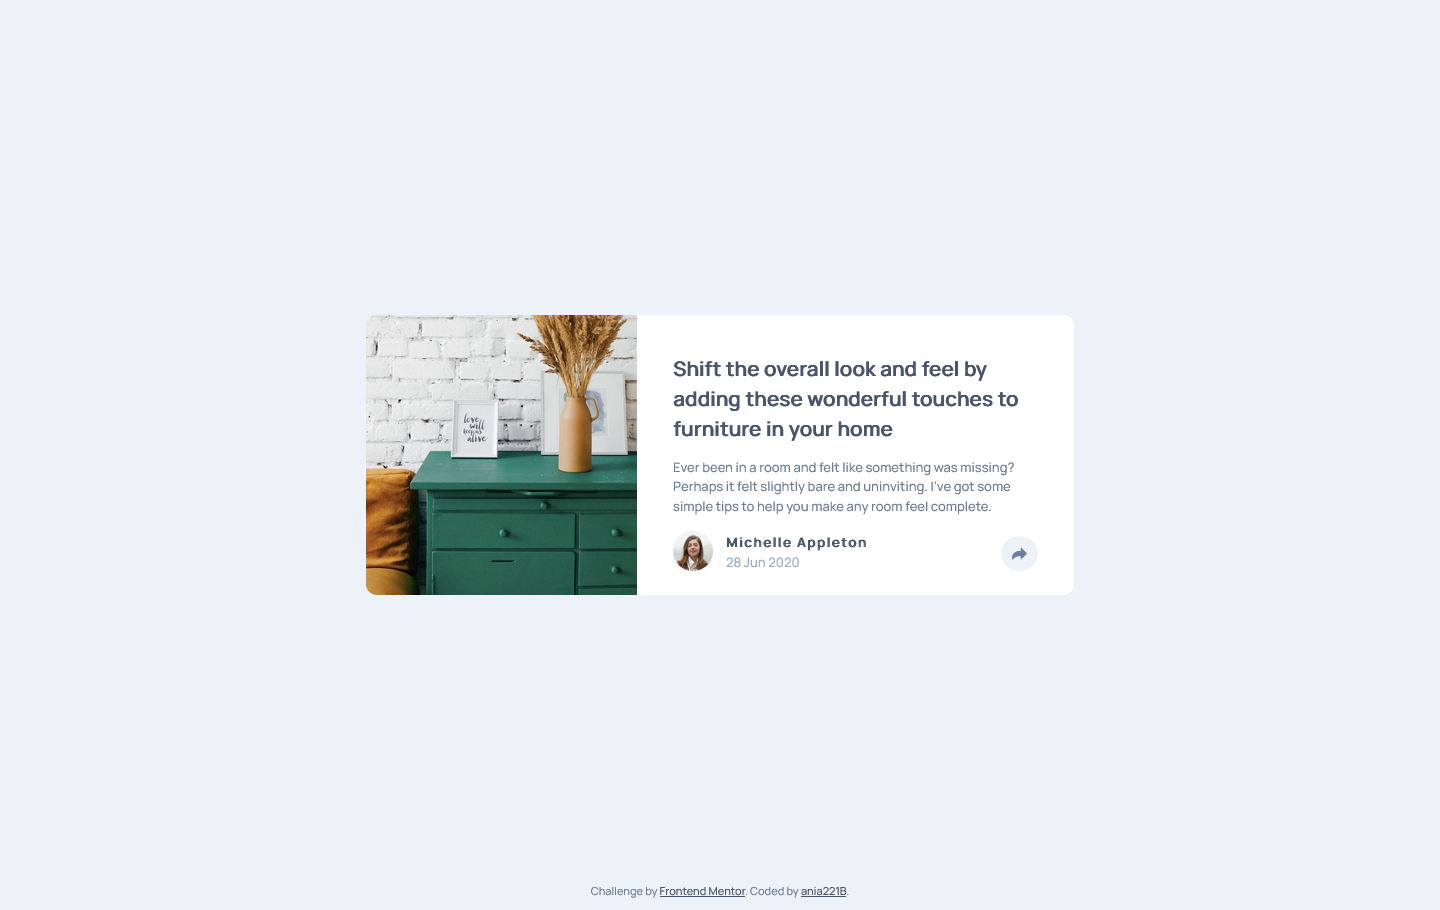
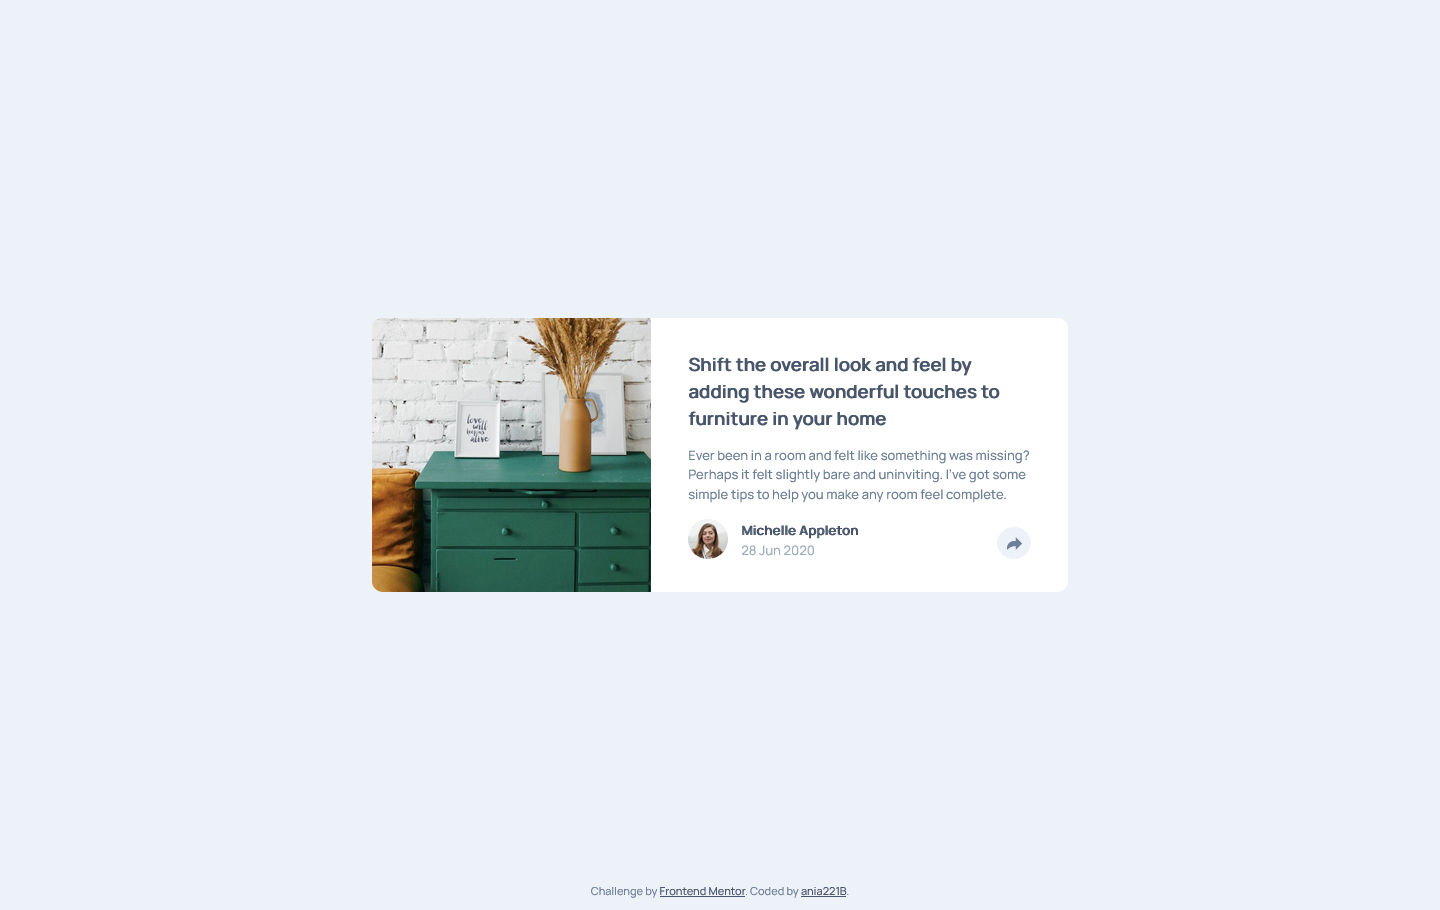
spacing update + new screenshots

diff --git a/css/styles.css b/css/styles.css
@@ -11,7 +11,7 @@
 
     --fs-300: 0.65rem;
     --fs-400: 0.8125rem;
-    --fs-700: 1rem;
+    --fs-700: 0.98rem;
 
     --fw-500: 500;
     --fw-700: 700;  
@@ -22,7 +22,7 @@
 @media (min-width: 52em) {
     :root {
         --fs-300: 0.65rem;       
-        --fs-700: 1.25rem;
+        --fs-700: 1.125rem;
     }
 }
 
@@ -66,14 +66,13 @@ main + footer {
 }
 
 .article h2 {
-    margin-top: 0.75em;
+   
     font-size: var(--fs-700);
     
 }
 
 .article h3 {
     font-size: var(--fs-400);
-    letter-spacing: 0.09rem;
 }
 
 .article time {
@@ -104,7 +103,7 @@ main + footer {
 
 @media(min-width: 52em) {
     .grid {
-        grid-template-columns: 0.62fr 1fr;
+        grid-template-columns: 0.67fr 1fr;
     }
 }
 
@@ -130,7 +129,7 @@ main + footer {
 
 @media(min-width: 52em) {
     .grid {
-        max-width: 50.25rem;
+        max-width: 49.5rem;
     }
 }
 
@@ -139,8 +138,9 @@ main + footer {
 .article__actions .btn[data-type="primary"] {
     margin-left: auto;
     border-radius: 50%;
-    padding: 0.85em;
+    padding: 0.75em;
     background-color: var(--clr-primary-200);
+    align-self: end;
   
     z-index: 10;
     position: relative;
@@ -150,7 +150,7 @@ main + footer {
   .article__actions .btn[data-type="primary"]::after {
       content:'';
       display: block;
-      background-color: var(--clr-primary-300);
+      background-color: var(--clr-primary-400);
       border-radius: 50%;
       opacity: 0;
       transition: opacity 250ms ease-in-out;
@@ -204,8 +204,8 @@ main + footer {
 }
 
 .article__content {
-    padding-block: 1.5rem;
-    padding-inline: 2.25rem;
+    padding-block: 2.5em;
+    padding-inline: 2.85em;
     border-radius: 0 0 var(--br) var(--br);
     background-color: var(--clr-neutral-100);
 }
@@ -255,10 +255,11 @@ main + footer {
 .article__actions .menu-wrapper {
     display: flex;
     justify-content: start;
+    align-items: center;
     background-color: var(--clr-primary-700);
     padding-inline: 2.5rem;
     padding-block-start: 0.75rem;
-    padding-block-end: 1.25em;
+    padding-block-end: 1.5rem;
     border-radius: 0 0 var(--br) var(--br);
 
     position: absolute;
@@ -305,8 +306,8 @@ main + footer {
     }
 
     .article.menu-is-open .article__actions .menu-wrapper {
-        min-width: 13rem;
-        padding-inline: 1.5rem;
+        min-width: 13.25rem;
+        padding-inline: 1.65rem;
         padding-block: 0.125rem;
         border-radius: var(--br);
 
